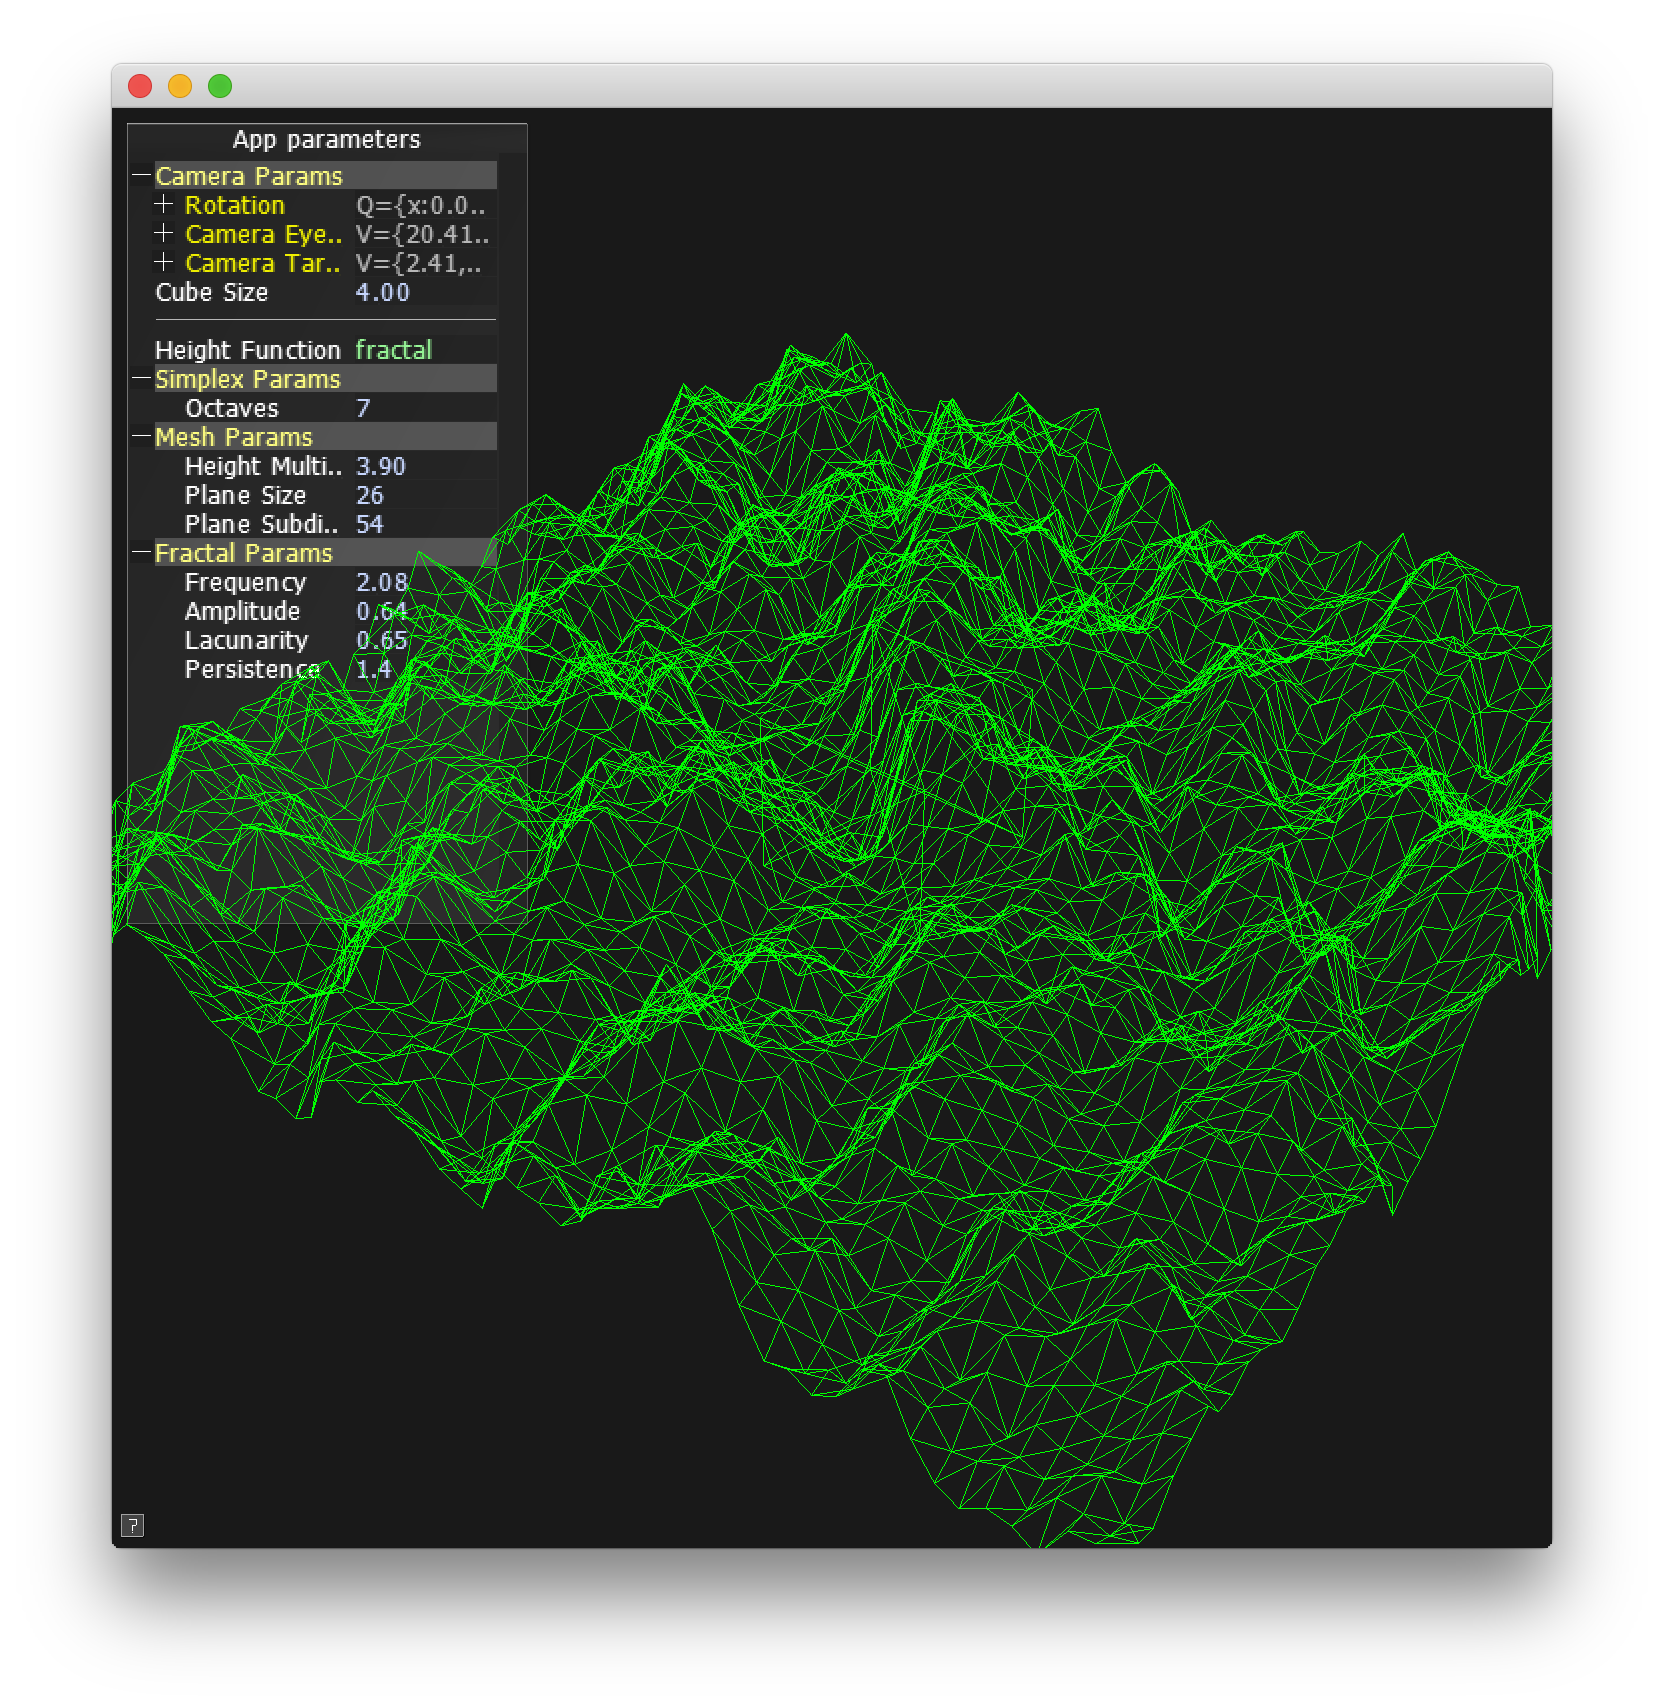
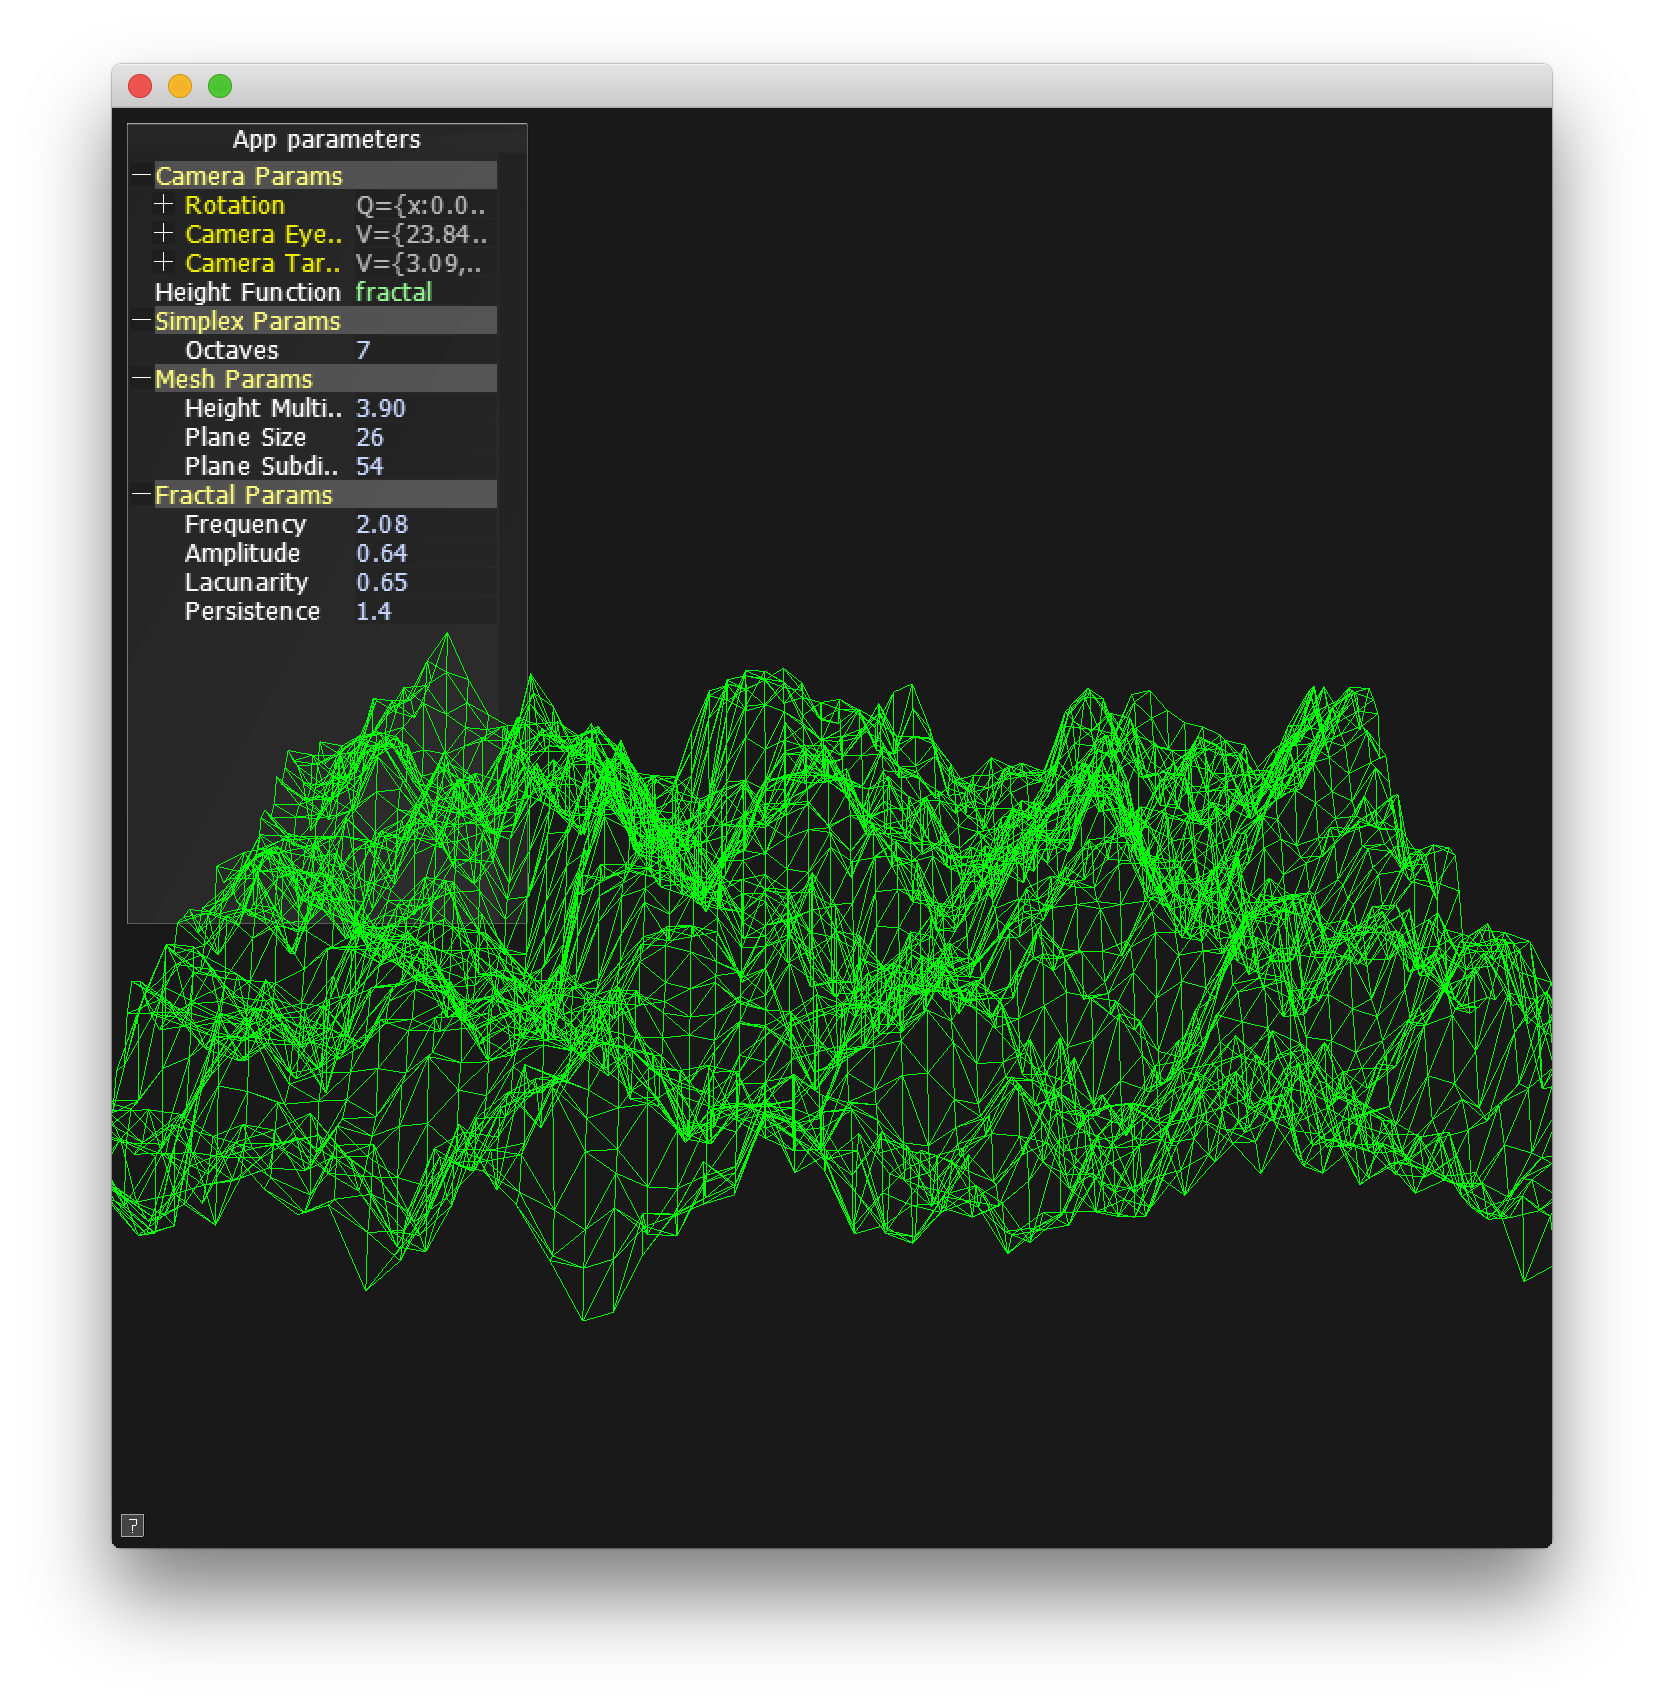
Removed cube and got flyover animation working

Changed region(s): [[0.0625, 0.1241, 0.9375, 0.8068], [0.5938, 0.8378, 0.6875, 0.8999]]

diff --git a/src/MeshParamTestApp.cpp b/src/MeshParamTestApp.cpp
@@ -64,6 +64,10 @@ private:
     vec3                    mCameraEyePoint;
     vec3                    mCameraTarget;
     float                   mHeightMult;
+    gl::BatchRef            mBatch;
+//    gl::GlslProg            mShader;
+    int                     mTerrainOffset;
+    double                  m_fLastTime;
 };
 
 void MeshParamTestApp::setPlaneSubdivisions( int subdivisions)
@@ -80,8 +84,12 @@ void MeshParamTestApp::setPlaneSize( int size)
 
 void MeshParamTestApp::setup()
 {
+    m_fLastTime = cinder::app::getElapsedSeconds();
+    
     mHeightFunction = fractal;
     mSelectedHeightFunction = fractal;
+    mTerrainOffset = 0;
+    
     setupParams();
     updateNoise();
     setupShader();
@@ -103,9 +111,8 @@ void MeshParamTestApp::setupShader()
 {
     // setup shader
     try {
-        mGlsl = gl::GlslProg::create( gl::GlslProg::Format().vertex( loadAsset( "basic.vert" ) )
-                                     .fragment( loadAsset( "basic.frag" ) )
-                                     .geometry( loadAsset( "basic.geom" ) ) );
+        mGlsl = gl::GlslProg::create( gl::GlslProg::Format().vertex( loadAsset( "blur.vert" ) )
+                                     .fragment( loadAsset( "blur.frag" ) ));
     }
     catch( gl::GlslProgCompileExc ex ) {
         cout << ex.what() << endl;
@@ -136,11 +143,17 @@ void MeshParamTestApp::updatePlaneDimensions()
     };
     
     mVboMesh = gl::VboMesh::create( plane, bufferLayout );
+    mTerrainOffset = 0;
 }
 
 void MeshParamTestApp::udpatePlaneHeights()
 {
     float offset = getElapsedSeconds() * 4.0f;
+    
+    if (cinder::app::getElapsedSeconds() >= m_fLastTime + 0.3) {
+        m_fLastTime += 0.1;
+        mTerrainOffset += 1;
+    }
     
     // Dynmaically generate our new positions based on a sin(x) + cos(z) wave
     // We set 'orphanExisting' to false so that we can also read from the position buffer, though keep
@@ -160,10 +173,10 @@ void MeshParamTestApp::udpatePlaneHeights()
                 mappedPosAttrib->y = Rand::randFloat(1);
                 break;
             case fractal:
-                mappedPosAttrib->y = mHeightMult * mNoise.fractal(mOctaves, pos.x, pos.z);
+                mappedPosAttrib->y = mHeightMult * mNoise.fractal(mOctaves, pos.x, pos.z + mTerrainOffset);
                 break;
             case simplex:
-                mappedPosAttrib->y = mHeightMult * mNoise.noise(pos.x, pos.z);
+                mappedPosAttrib->y = mHeightMult * mNoise.noise(pos.x, pos.z + mTerrainOffset);
                 break;
             default:
                 break;
@@ -177,11 +190,9 @@ void MeshParamTestApp::udpatePlaneHeights()
 void MeshParamTestApp::setupParams()
 {
     // camera params
-    mCameraEyePoint = vec3( 20.41, 30.3, 30.93 );
-    mCameraTarget = vec3( 2.41, 3.81, 5.68 );
-    
-    // cube params
-    mObjSize = 4;
+    mCameraEyePoint = vec3( 23.84, 22.67, 34.78 );
+    mCameraTarget = vec3( 3.09, 4.70, 4.58 );
+    mObjOrientation = quat(-0.309,   -0.016,    0.949,   -0.061);
     
     // mesh params
     mPlaneSize = 26;
@@ -200,14 +211,9 @@ void MeshParamTestApp::setupParams()
     // Create the interface and give it a name.
     mParams = params::InterfaceGl::create( getWindow(), "App parameters", toPixels( ivec2( 200, 400 ) ) );
     
-    mParams->addParam( "Rotation", &mObjOrientation ).group("Camera Params");
+    mParams->addParam( "Rotation", &mObjOrientation ).group("Camera Params").updateFn( [this] { console() << "mObjOrientation: " << mObjOrientation << endl; } );
     mParams->addParam( "Camera EyePoint", &mCameraEyePoint ).group("Camera Params");
     mParams->addParam( "Camera Target", &mCameraTarget ).group("Camera Params");
-    
-    // Setup some basic parameters.
-    mParams->addParam( "Cube Size", &mObjSize ).min( 0.1f ).max( 20.5f ).keyIncr( "z" ).keyDecr( "Z" ).precision( 2 ).step( 0.02f );
-    
-    mParams->addSeparator();
     
     mParams->addParam( "Height Function", heightFunctionNames, &mSelectedHeightFunction )
     .updateFn( [this] { mHeightFunction = HeightFunction(mSelectedHeightFunction); } );
@@ -253,9 +259,6 @@ void MeshParamTestApp::draw()
     gl::setMatrices( mCamera );
     mCamera.lookAt(mCameraEyePoint, mCameraTarget);
     gl::rotate( mObjOrientation );
-    glPolygonMode(GL_FRONT_AND_BACK, GL_LINE);
-    gl::drawCube( vec3( 0 ), vec3( mObjSize ) );
-    glPolygonMode(GL_FRONT_AND_BACK, GL_FILL);
     
     // Draw the interface
     mParams->draw();
@@ -264,8 +267,20 @@ void MeshParamTestApp::draw()
     gl::color(0, 1, 0);
     
     glPolygonMode(GL_FRONT_AND_BACK, GL_LINE);
+    
+//    mShader.bind();
     gl::draw( mVboMesh );
+//    mShader.unbind();
+    
+    
+    
+//    gl::ScopedGlslProg shader( mGlsl );
+//
+//
     glPolygonMode(GL_FRONT_AND_BACK, GL_FILL);
+//    mBatch = gl::Batch::create( mVboMesh, mGlsl );
+//    mBatch->draw();
+    
 }
 
 CINDER_APP( MeshParamTestApp, RendererGl, prepareSettings )
